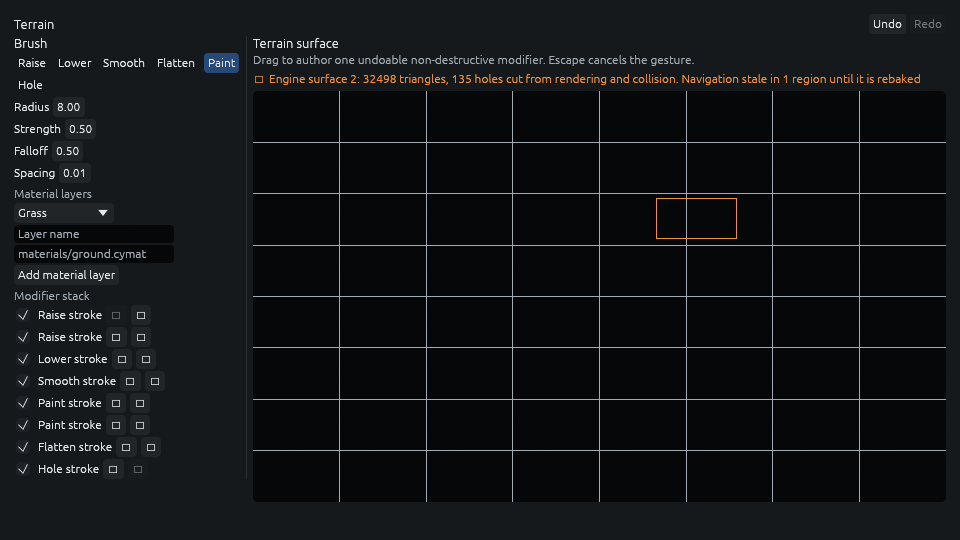
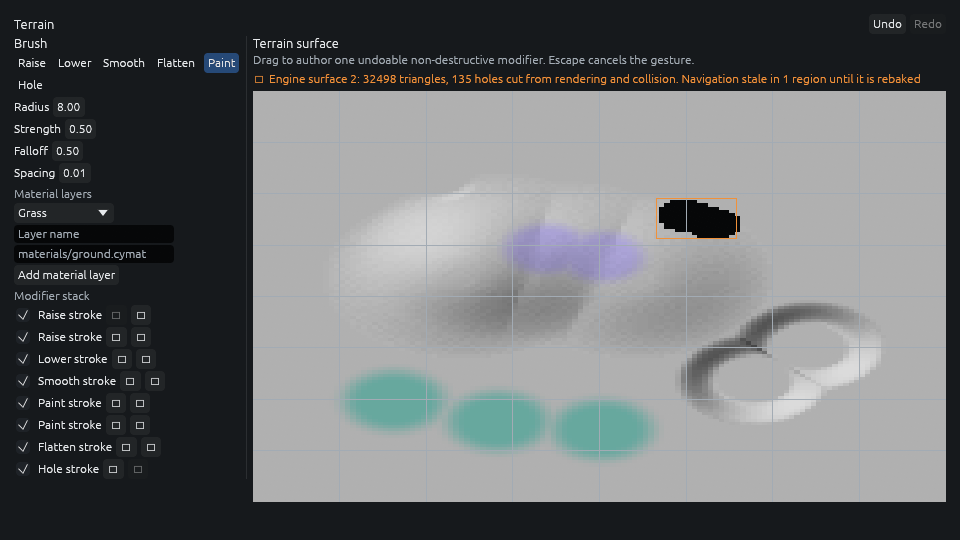
Count the terrain commands and redraw the blank paint snapshot
The registry count and the scaffold's parity test missed terrain.brush.apply
and terrain.status; the parity test now expects the status read to be a
read. Each snapshot draws in a context of its own, so the second terrain
snapshot drew a texture the new context never had and the paint PNG came
out empty. The test drops the cache between snapshots and asserts the
field shows the surface.

diff --git a/openspec/changes/add-editor-terrain-tools/evidence/mutate.py b/openspec/changes/add-editor-terrain-tools/evidence/mutate.py
@@ -23,6 +23,7 @@ HERE = pathlib.Path(__file__).resolve().parent
 ROOT = HERE.parents[3]
 OUT = HERE / "falsification.txt"
 BUILD = ROOT / "build/dev"
+SHOTS = BUILD / "terrain-mutation-snapshots"
 
 PANEL = "editor/crates/cy-editor-shell/src/panels/terrain.rs"
 COMMANDS = "editor/crates/cy-editor-services/src/terrain.rs"
@@ -38,6 +39,8 @@ SHELL_LIB = ("rust", "cy-editor-shell", ["--lib"])
 PANELS = ("rust", "cy-editor-shell", ["--test", "new_panels_are_accessible"])
 SERVICES = ("rust", "cy-editor-services", ["--lib"])
 MCP = ("rust", "cy-editor-mcp", ["--test", "a_session_over_the_wire"])
+# The snapshot test is ignored by default: it needs a GPU adapter and a directory to write into.
+SNAPSHOTS = ("rust", "cy-editor-shell", ["--test", "panel_snapshots"], ["--ignored"])
 AUTHORING = ("cpp", "cy_test_integration_terrain_authoring", "integration.terrain_authoring")
 BACKEND = ("cpp", "cy_test_integration_editor_backend_terrain",
            "integration.editor_backend_terrain")
@@ -98,6 +101,9 @@ MUTATIONS = [
      "                self.evaluation = Some(evaluation);\n",
      "                let _ = evaluation;\n",
      MCP, "terrain_brushes_are_evaluated_by_the_engine_and_undo_over_mcp"),
+    ("r15_snapshot_keeps_a_stale_texture", "editor/crates/cy-editor-shell/tests/panel_snapshots.rs",
+     "    desk.inputs.terrain_surface = None;\n", "",
+     SNAPSHOTS, "terrain_tools_snapshots"),
     ("c01_brush_reaches_past_its_radius", STACK,
      "brush_falloff(distance, modifier.radius, modifier.falloff)",
      "brush_falloff(distance, modifier.radius * 1.25F, modifier.falloff)",
@@ -168,10 +174,14 @@ def cargo_env():
     return env
 
 
-def run_rust(env, crate, target, pattern):
+def run_rust(env, crate, target, pattern, harness=()):
     jobs = env.get("CY_JOBS", "4")
     command = ["cargo", "test", "--manifest-path", str(ROOT / "editor/Cargo.toml"), "--jobs", jobs,
                "-p", crate, *target, pattern]
+    if harness:
+        command += ["--", *harness]
+        env = dict(env, CY_PANEL_SNAPSHOTS=str(SHOTS))
+        SHOTS.mkdir(parents=True, exist_ok=True)
     result = subprocess.run(command, cwd=ROOT, capture_output=True, text=True, env=env)
     text = result.stdout + result.stderr
     failed = sorted(set(re.findall(r"^test (\S+) \.\.\. FAILED$", text, re.MULTILINE)))
@@ -220,7 +230,8 @@ def main(prefixes):
         path.write_text(source.replace(before, after), encoding="utf-8")
         try:
             if suite[0] == "rust":
-                code, failed, summary, compiled, text = run_rust(env, suite[1], suite[2], pattern)
+                code, failed, summary, compiled, text = run_rust(env, suite[1], suite[2], pattern,
+                                                                 *suite[3:])
             else:
                 code, failed, summary, compiled, text = run_cpp(env, *suite[1:])
         finally:

diff --git a/editor/crates/cy-editor-shell/tests/panel_snapshots.rs b/editor/crates/cy-editor-shell/tests/panel_snapshots.rs
@@ -295,10 +295,11 @@ impl Gpu {
     }
 }
 
-fn snapshot(desk: &mut Desk, panel: &str, name: &str) {
+/// Draw `panel` in a fresh context and write it as `name`; answers its pixels when it was written.
+fn snapshot(desk: &mut Desk, panel: &str, name: &str) -> Option<Vec<u8>> {
     let Some(directory) = std::env::var_os("CY_PANEL_SNAPSHOTS").map(PathBuf::from) else {
         eprintln!("CY_PANEL_SNAPSHOTS is not set; not writing {name}");
-        return;
+        return None;
     };
     let _device = ONE_DEVICE
         .lock()
@@ -317,6 +318,7 @@ fn snapshot(desk: &mut Desk, panel: &str, name: &str) {
     image::save_buffer(&path, &pixels, SIZE[0], SIZE[1], image::ColorType::Rgba8)
         .expect("the snapshot is written");
     eprintln!("wrote {}", path.display());
+    Some(pixels)
 }
 
 /// A world with one terrain root and one material layer, both through registered commands.
@@ -622,9 +624,30 @@ fn terrain_tools_snapshots() {
     let (mut desk, _, _) = terrain_tools_desk();
     install_engine_reply(&mut desk);
     desk.inputs.terrain_tool = "hole".into();
-    snapshot(&mut desk, "editor-terrain", "editor-terrain-tools.png");
+    let tools = snapshot(&mut desk, "editor-terrain", "editor-terrain-tools.png");
+    // Each snapshot draws in a context of its own, which does not know the texture the panel
+    // uploaded into the last one; a window keeps one context and never drops its cache.
+    desk.inputs.terrain_surface = None;
     desk.inputs.terrain_tool = "paint".into();
-    snapshot(&mut desk, "editor-terrain", "editor-terrain-paint.png");
+    let paint = snapshot(&mut desk, "editor-terrain", "editor-terrain-paint.png");
+    for pixels in [tools, paint].into_iter().flatten() {
+        assert!(
+            lit_field_pixels(&pixels) > 100_000,
+            "the brush field shows the engine's surface, not an empty field"
+        );
+    }
+}
+
+/// Pixels in the terrain brush field lighter than the sunken background: the engine's grey
+/// surface covers most of the field, the grid lines alone a few thousand pixels.
+fn lit_field_pixels(pixels: &[u8]) -> usize {
+    let width = usize::try_from(SIZE[0]).expect("fits");
+    pixels
+        .chunks_exact(4)
+        .enumerate()
+        .filter(|(at, _)| (260..940).contains(&(at % width)) && (100..495).contains(&(at / width)))
+        .filter(|(_, rgba)| rgba[..3].iter().map(|&c| u32::from(c)).sum::<u32>() > 300)
+        .count()
 }
 
 fn catalogue(identity: u32, name: &str, pin_type: &str) -> Vec<u8> {

diff --git a/editor/crates/cy-editor-services/src/builtin.rs b/editor/crates/cy-editor-services/src/builtin.rs
@@ -647,11 +647,12 @@ mod tests {
         // and five engine preview commands; reusable modules add read/save.
         // The physics tools add seven physics debug layers and hide-all in `crate::viewports`, and
         // the three joint commands in `crate::joints`.
+        // Terrain tools add the agent's brush, `terrain.brush.apply`, and `terrain.status`.
         let mut registry = Registry::new();
         register(&mut registry).unwrap();
         assert_eq!(
             registry.len(),
-            8 + 37 + 3 + 7 + 2 + 1 + 3 + 6 + 7 + 2 + 6 + 5 + 2 + 5 + 7 + 2 + 8 + 3
+            8 + 37 + 3 + 7 + 2 + 1 + 3 + 6 + 7 + 2 + 6 + 5 + 2 + 5 + 7 + 2 + 8 + 3 + 2
         );
         for metadata in registry.all() {
             metadata.validate().unwrap();

diff --git a/editor/crates/cy-editor-shell/src/panels/specialised.rs b/editor/crates/cy-editor-shell/src/panels/specialised.rs
@@ -246,7 +246,13 @@ mod tests {
         for command in <super::super::terrain::TerrainTool as SpecialisedTool>::COMMANDS {
             let tool = cy_editor_agent::tool::project_one(&registry, command).unwrap();
             assert!(tool.exclusion.is_none(), "{command}");
-            assert_eq!(tool.effect, EffectClass::ReversibleMutation, "{command}");
+            // What the panel shows of the engine's answer is a read; everything else authors.
+            let expected = if command.ends_with(".status") {
+                EffectClass::Read
+            } else {
+                EffectClass::ReversibleMutation
+            };
+            assert_eq!(tool.effect, expected, "{command}");
         }
     }
 
